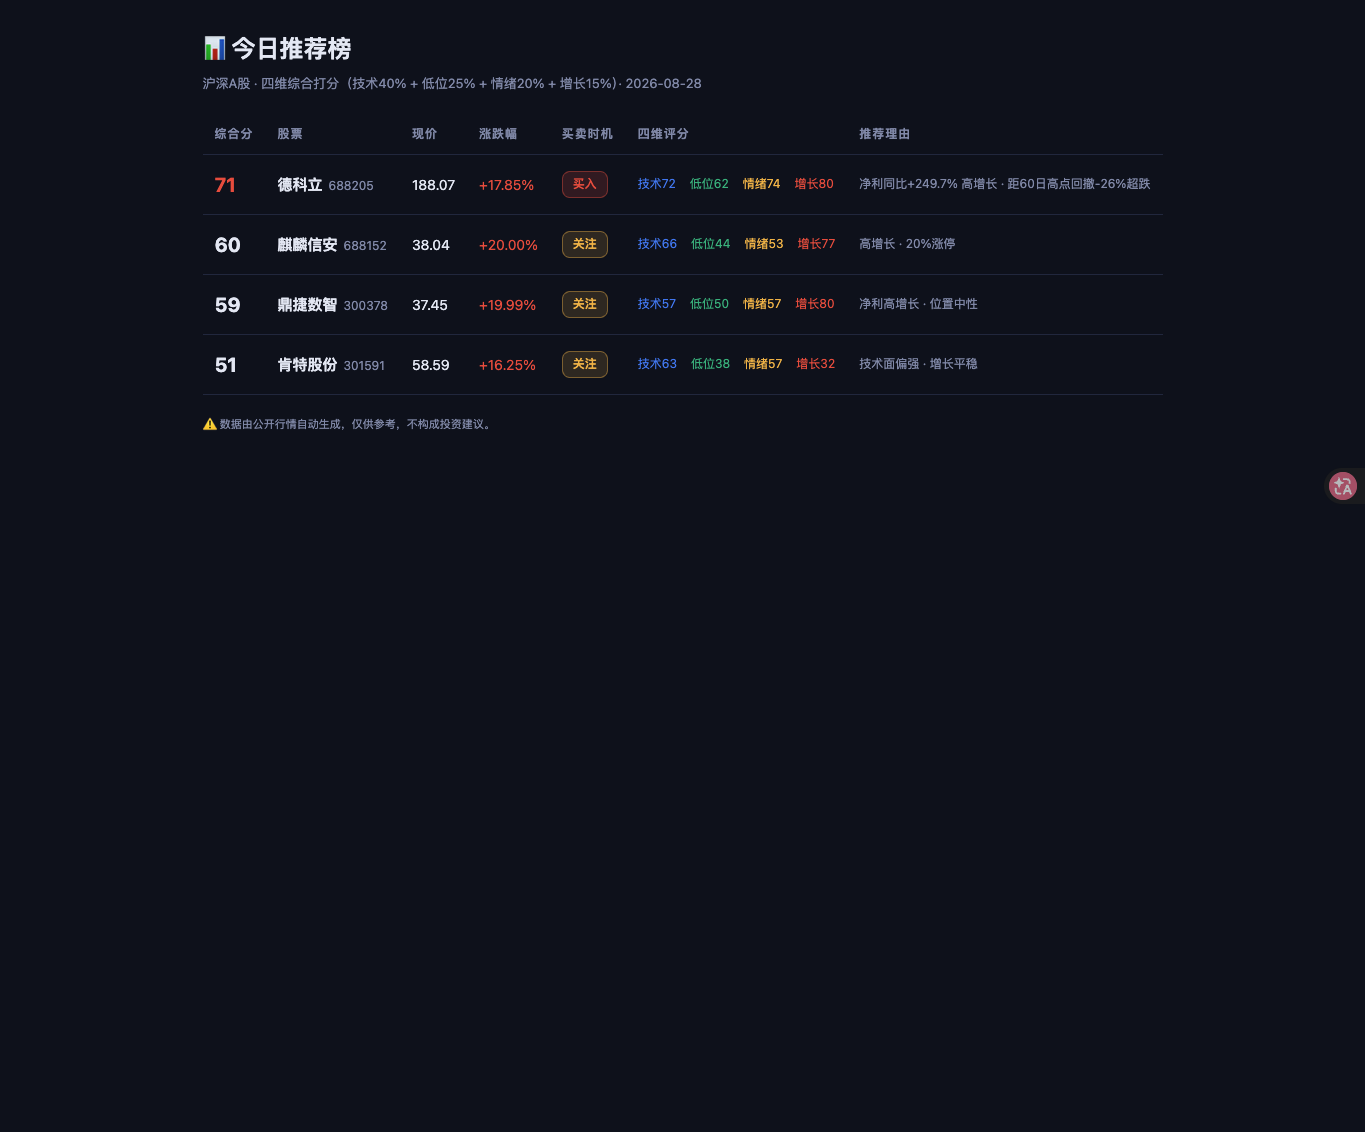
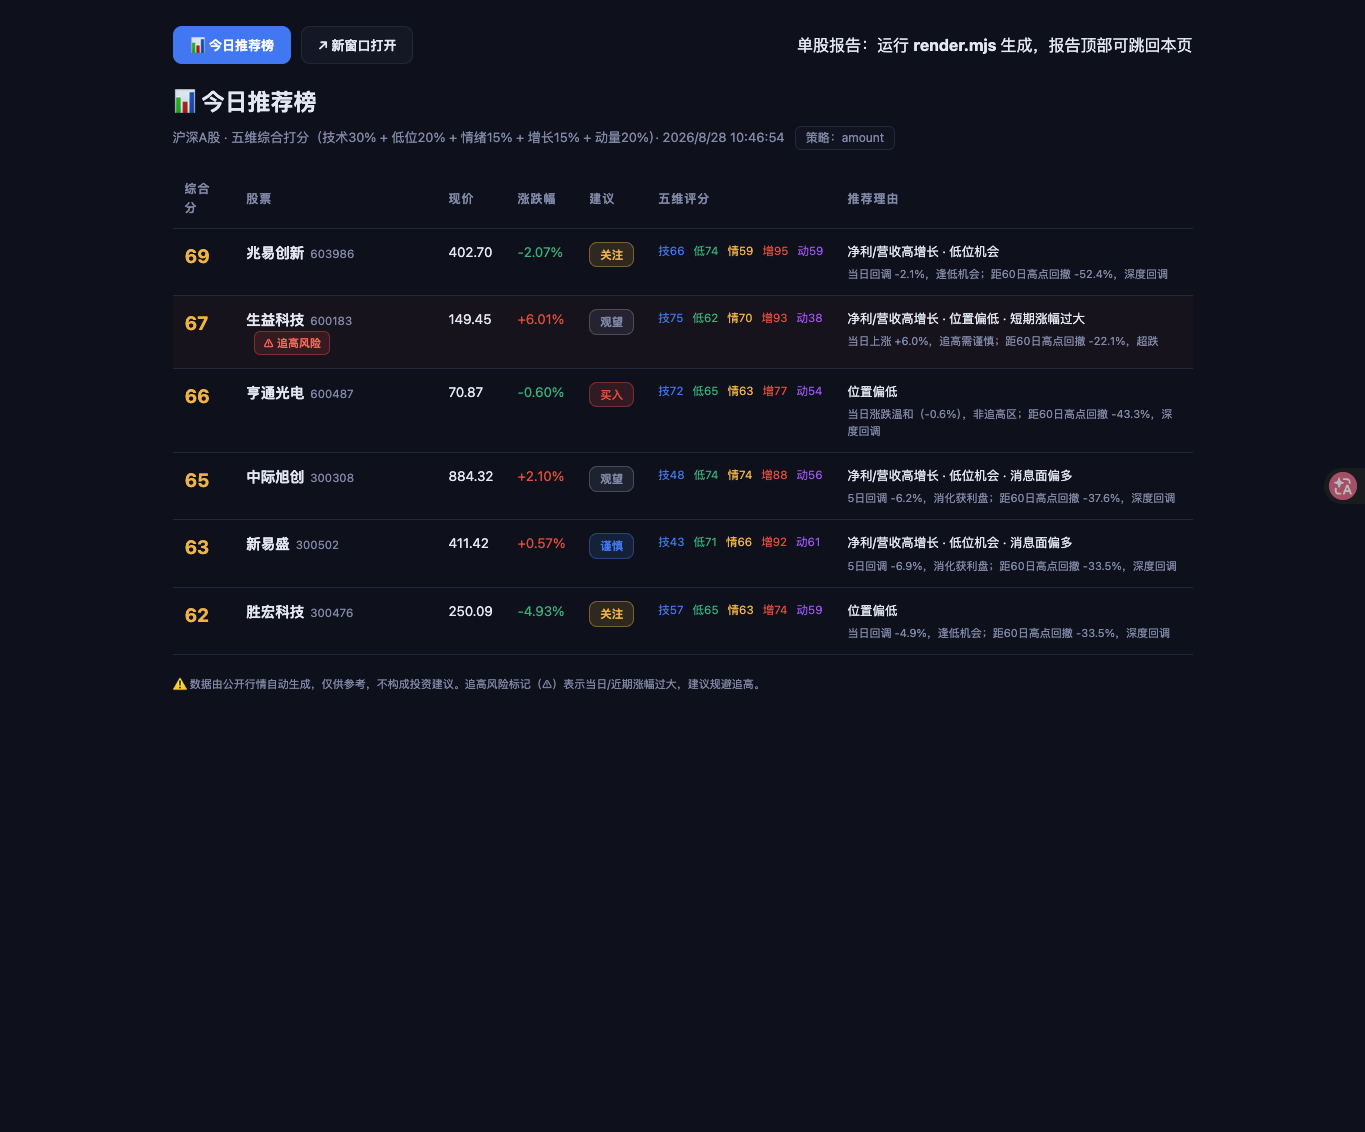
fix: add momentum/chase-risk dimension to screening, penalize limit-up stocks; add navbar to reports and recommendation board page; strategy selection for stock pool

diff --git a/assets/example-screen-board.html b/assets/example-screen-board.html
@@ -1,0 +1,53 @@
+<!DOCTYPE html>
+<html lang="zh-CN">
+<head><meta charset="utf-8"/><meta name="viewport" content="width=device-width, initial-scale=1"/>
+<title>今日推荐榜 · 多维度选股</title><style>
+:root{--bg:#0b0f1d;--panel:#121829;--panel2:#0e1424;--line:#232c47;--txt:#e6eaf5;--dim:#8a93b2;--up:#f0483e;--down:#2ebd85;--gold:#f5b942;--blue:#3b82f6;}
+*{box-sizing:border-box;margin:0;padding:0}
+body{background:var(--bg);color:var(--txt);font-family:-apple-system,BlinkMacSystemFont,"Segoe UI","PingFang SC","Hiragino Sans GB","Microsoft YaHei",sans-serif;padding:26px;line-height:1.55}
+.wrap{max-width:1020px;margin:0 auto}
+.navbar{display:flex;gap:10px;align-items:center;margin-bottom:20px;flex-wrap:wrap}
+.navbar a{display:inline-flex;align-items:center;gap:6px;padding:8px 16px;border-radius:9px;font-size:13px;font-weight:600;text-decoration:none;border:1px solid var(--line);background:var(--panel);color:var(--txt)}
+.navbar a:hover{border-color:var(--blue);color:var(--blue)}
+.navbar a.nav-primary{background:var(--blue);border-color:var(--blue);color:#fff}
+.navbar a.nav-primary:hover{filter:brightness(1.15)}
+.navbar .nav-spacer{flex:1}
+h1{font-size:23px;margin-bottom:6px}
+.sub{color:var(--dim);font-size:13px;margin-bottom:20px}
+table{width:100%;border-collapse:collapse;font-size:13.5px}
+th{color:var(--dim);font-size:12px;font-weight:600;text-align:left;padding:10px 12px;border-bottom:1px solid var(--line);letter-spacing:1px}
+td{padding:13px 12px;border-bottom:1px solid var(--line);vertical-align:top}
+.stock{font-weight:700;font-size:14.5px}
+.code{color:var(--dim);font-size:11.5px;font-weight:400;margin-left:6px}
+.total{font-size:19px;font-weight:700}
+.t-strong{color:var(--up)} .t-good{color:var(--gold)} .t-mid{color:var(--txt)} .t-weak{color:var(--dim)}
+.badge{display:inline-block;padding:3px 10px;border-radius:8px;font-size:11.5px;font-weight:600;white-space:nowrap}
+.buy{background:rgba(240,72,62,.16);color:var(--up);border:1px solid rgba(240,72,62,.4)}
+.watch{background:rgba(245,185,66,.14);color:var(--gold);border:1px solid rgba(245,185,66,.4)}
+.neutral{background:rgba(138,147,178,.14);color:var(--dim);border:1px solid rgba(138,147,178,.4)}
+.caution{background:rgba(59,130,246,.14);color:var(--blue);border:1px solid rgba(59,130,246,.4)}
+.sell{background:rgba(46,189,133,.16);color:var(--down);border:1px solid rgba(46,189,133,.4)}
+.risk{background:rgba(240,72,62,.22);color:#ff6b5e;border:1px solid rgba(240,72,62,.6)}
+.risk-flag{display:inline-block;margin-left:8px;padding:2px 8px;border-radius:6px;font-size:11px;font-weight:600;color:#ff6b5e;background:rgba(240,72,62,.15);border:1px solid rgba(240,72,62,.4)}
+.row-risk td{background:rgba(240,72,62,.04)}
+.up{color:var(--up)} .down{color:var(--down)}
+.score-row{display:flex;gap:9px;font-size:11.5px;white-space:nowrap}
+.s-t{color:var(--blue)} .s-l{color:var(--down)} .s-e{color:var(--gold)} .s-g{color:var(--up)} .s-m{color:#a855f7}
+.reason{color:var(--txt);font-size:12.5px}
+.note{color:var(--dim);font-size:11px;margin-top:4px}
+.foot{color:var(--dim);font-size:11px;margin-top:20px}
+.strat{display:inline-block;padding:2px 10px;border-radius:6px;background:var(--panel2);border:1px solid var(--line);color:var(--dim);font-size:12px;margin-left:10px}
+</style></head><body><div class="wrap">
+<nav class="navbar">
+<a href="screen-board.html" class="nav-primary">📊 今日推荐榜</a>
+<a href="#" onclick="window.open(location.href,'_blank');return false">↗ 新窗口打开</a>
+<span class="nav-spacer"></span>
+<span class="nav-note">单股报告：运行 <b>render.mjs</b> 生成，报告顶部可跳回本页</span>
+</nav>
+<h1>📊 今日推荐榜</h1>
+<div class="sub">沪深A股 · 五维综合打分（技术30% + 低位20% + 情绪15% + 增长15% + 动量20%）· 2026/8/28 10:46:54<span class="strat">策略：amount</span></div>
+<table><tr><th>综合分</th><th>股票</th><th>现价</th><th>涨跌幅</th><th>建议</th><th>五维评分</th><th>推荐理由</th></tr>
+<tr class=""><td><span class="total t-good">69</span></td><td><span class="stock">兆易创新</span><span class="code">603986</span></td><td>402.70</td><td class="down">-2.07%</td><td><span class="badge watch">关注</span></td><td><div class="score-row"><span class="s-t">技66</span><span class="s-l">低74</span><span class="s-e">情59</span><span class="s-g">增95</span><span class="s-m">动59</span></div></td><td><div class="reason">净利/营收高增长 · 低位机会</div><div class="note">当日回调 -2.1%，逢低机会；距60日高点回撤 -52.4%，深度回调</div></td></tr><tr class="row-risk"><td><span class="total t-good">67</span></td><td><span class="stock">生益科技</span><span class="code">600183</span><span class="risk-flag">⚠ 追高风险</span></td><td>149.45</td><td class="up">+6.01%</td><td><span class="badge neutral">观望</span></td><td><div class="score-row"><span class="s-t">技75</span><span class="s-l">低62</span><span class="s-e">情70</span><span class="s-g">增93</span><span class="s-m">动38</span></div></td><td><div class="reason">净利/营收高增长 · 位置偏低 · 短期涨幅过大</div><div class="note">当日上涨 +6.0%，追高需谨慎；距60日高点回撤 -22.1%，超跌</div></td></tr><tr class=""><td><span class="total t-good">66</span></td><td><span class="stock">亨通光电</span><span class="code">600487</span></td><td>70.87</td><td class="down">-0.60%</td><td><span class="badge buy">买入</span></td><td><div class="score-row"><span class="s-t">技72</span><span class="s-l">低65</span><span class="s-e">情63</span><span class="s-g">增77</span><span class="s-m">动54</span></div></td><td><div class="reason">位置偏低</div><div class="note">当日涨跌温和（-0.6%），非追高区；距60日高点回撤 -43.3%，深度回调</div></td></tr><tr class=""><td><span class="total t-good">65</span></td><td><span class="stock">中际旭创</span><span class="code">300308</span></td><td>884.32</td><td class="up">+2.10%</td><td><span class="badge neutral">观望</span></td><td><div class="score-row"><span class="s-t">技48</span><span class="s-l">低74</span><span class="s-e">情74</span><span class="s-g">增88</span><span class="s-m">动56</span></div></td><td><div class="reason">净利/营收高增长 · 低位机会 · 消息面偏多</div><div class="note">5日回调 -6.2%，消化获利盘；距60日高点回撤 -37.6%，深度回调</div></td></tr><tr class=""><td><span class="total t-good">63</span></td><td><span class="stock">新易盛</span><span class="code">300502</span></td><td>411.42</td><td class="up">+0.57%</td><td><span class="badge caution">谨慎</span></td><td><div class="score-row"><span class="s-t">技43</span><span class="s-l">低71</span><span class="s-e">情66</span><span class="s-g">增92</span><span class="s-m">动61</span></div></td><td><div class="reason">净利/营收高增长 · 低位机会 · 消息面偏多</div><div class="note">5日回调 -6.9%，消化获利盘；距60日高点回撤 -33.5%，深度回调</div></td></tr><tr class=""><td><span class="total t-good">62</span></td><td><span class="stock">胜宏科技</span><span class="code">300476</span></td><td>250.09</td><td class="down">-4.93%</td><td><span class="badge watch">关注</span></td><td><div class="score-row"><span class="s-t">技57</span><span class="s-l">低65</span><span class="s-e">情63</span><span class="s-g">增74</span><span class="s-m">动59</span></div></td><td><div class="reason">位置偏低</div><div class="note">当日回调 -4.9%，逢低机会；距60日高点回撤 -33.5%，深度回调</div></td></tr>
+</table>
+<div class="foot">⚠ 数据由公开行情自动生成，仅供参考，不构成投资建议。追高风险标记（⚠）表示当日/近期涨幅过大，建议规避追高。</div>
+</div></body></html>

diff --git a/SKILL.md b/SKILL.md
@@ -17,22 +17,23 @@ description: 股票分析与买卖时机研判（A股），含多维度选股推
 
 ## 选股推荐（screen.mjs）
 
-用户要「今日推荐 / 选股」时，用 **四维综合打分** 从沪深涨幅榜筛选并排序：
+用户要「今日推荐 / 选股」时，用 **五维综合打分** 从沪深榜单筛选并排序：
 
 ```bash
-node <SKILL_DIR>/scripts/screen.mjs --top 10 --days 60 --out <工作区>/screen.json
+node <SKILL_DIR>/scripts/screen.mjs --top 10 --days 60 --out <工作区>/screen.json --html <工作区>/screen-board.html
 ```
 
-**四维权重**：
+**五维权重**：
 
 | 维度 | 权重 | 说明 |
 |---|---|---|
-| 技术面 | 40% | 复用 analyze 信号分（均线/MACD/RSI/KDJ/量能/布林） |
-| 低位买入信号 | 25% | 距60日高点回撤 + 区间位置 + 布林下轨/RSI超卖 + 低位放量 |
-| 情绪面 | 20% | 新闻情绪分（利好/利空） |
+| 技术面 | 30% | 复用 analyze 信号分（均线/MACD/RSI/KDJ/量能/布林） |
+| 低位买入信号 | 20% | 距60日高点回撤 + 区间位置 + 布林下轨/RSI超卖 + 低位放量 |
+| 情绪面 | 15% | 新闻情绪分（利好/利空） |
 | 未来增长 | 15% | 净利/营收同比 + 增长趋势 + ROE + 毛利率 + PEG |
+| 动量（追高风险） | 20% | 当日涨幅 + 5/10日涨幅；**涨停/接近涨停重罚，强制标记「追高风险」** |
 
-**回复用户**：给出按综合分排序的推荐榜（含四维明细、买卖时机、支撑/压力位），并说明每只的推荐理由（低位信号/增长亮点/情绪面）。可选 `--min-price` / `--max-price` 过滤价格区间。数据源为新浪行情榜 + 东方财富行情/财务接口，全部免费无需 key。
+**回复用户**：给出按综合分排序的推荐榜（含五维明细、买卖时机、支撑/压力位），并说明每只的推荐理由（低位信号/增长亮点/情绪面/追高警告）。涨停或当日大涨超 5% 的股票即使技术面强也要明确提示「追高风险、建议回调后再评估」，不得推荐买入。可选 `--strategy gain|amount|volume|turnover` 切换选股池（默认 gain 涨幅榜，amount 成交额榜更不易追高）、`--min-price` / `--max-price` 过滤价格区间。数据源为新浪行情榜 + 东方财富行情/财务接口，全部免费无需 key。
 
 ## 工作流
 
